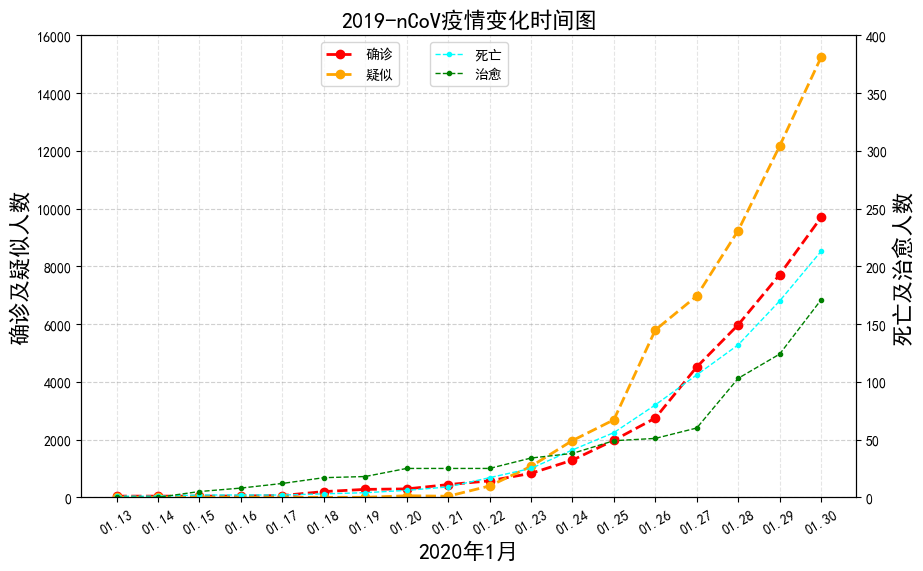
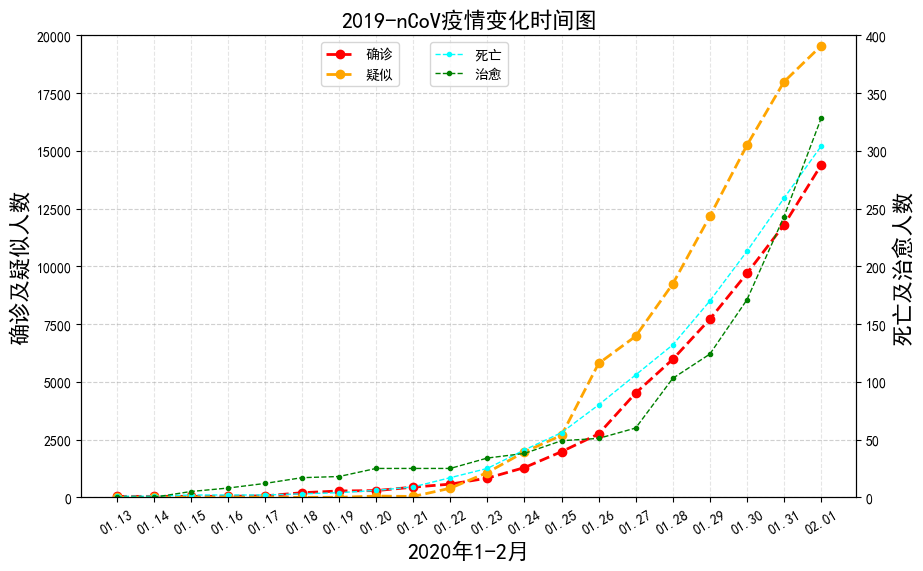
Daily Commit

diff --git a/nCov_basemap_visualization/nCoV_daily_change.py b/nCov_basemap_visualization/nCoV_daily_change.py
@@ -30,10 +30,10 @@ def daily_change():
     ax1.plot(date_list, everyday_suspect, lw=2, ls='--', marker='o', color='orange', label='疑似')
     # 设置标题，XY轴标题，刻度
     ax1.set_title("2019-nCoV疫情变化时间图", fontsize=16)
-    ax1.set_xlabel("2020年1月", fontsize=16)
+    ax1.set_xlabel("2020年1-2月", fontsize=16)
     ax1.set_xticklabels(date_list, rotation=30)
     ax1.set_ylabel(r"确诊及疑似人数", fontsize=16)
-    ax1.set_ylim(0, 16000)
+    ax1.set_ylim(0, 20000)
     # 显示网格线和显示图例
     plt.grid(which='major', axis='both', color='grey', linestyle='--', alpha=0.2)
     plt.legend(loc='upper left', bbox_to_anchor=(0.3,1))
